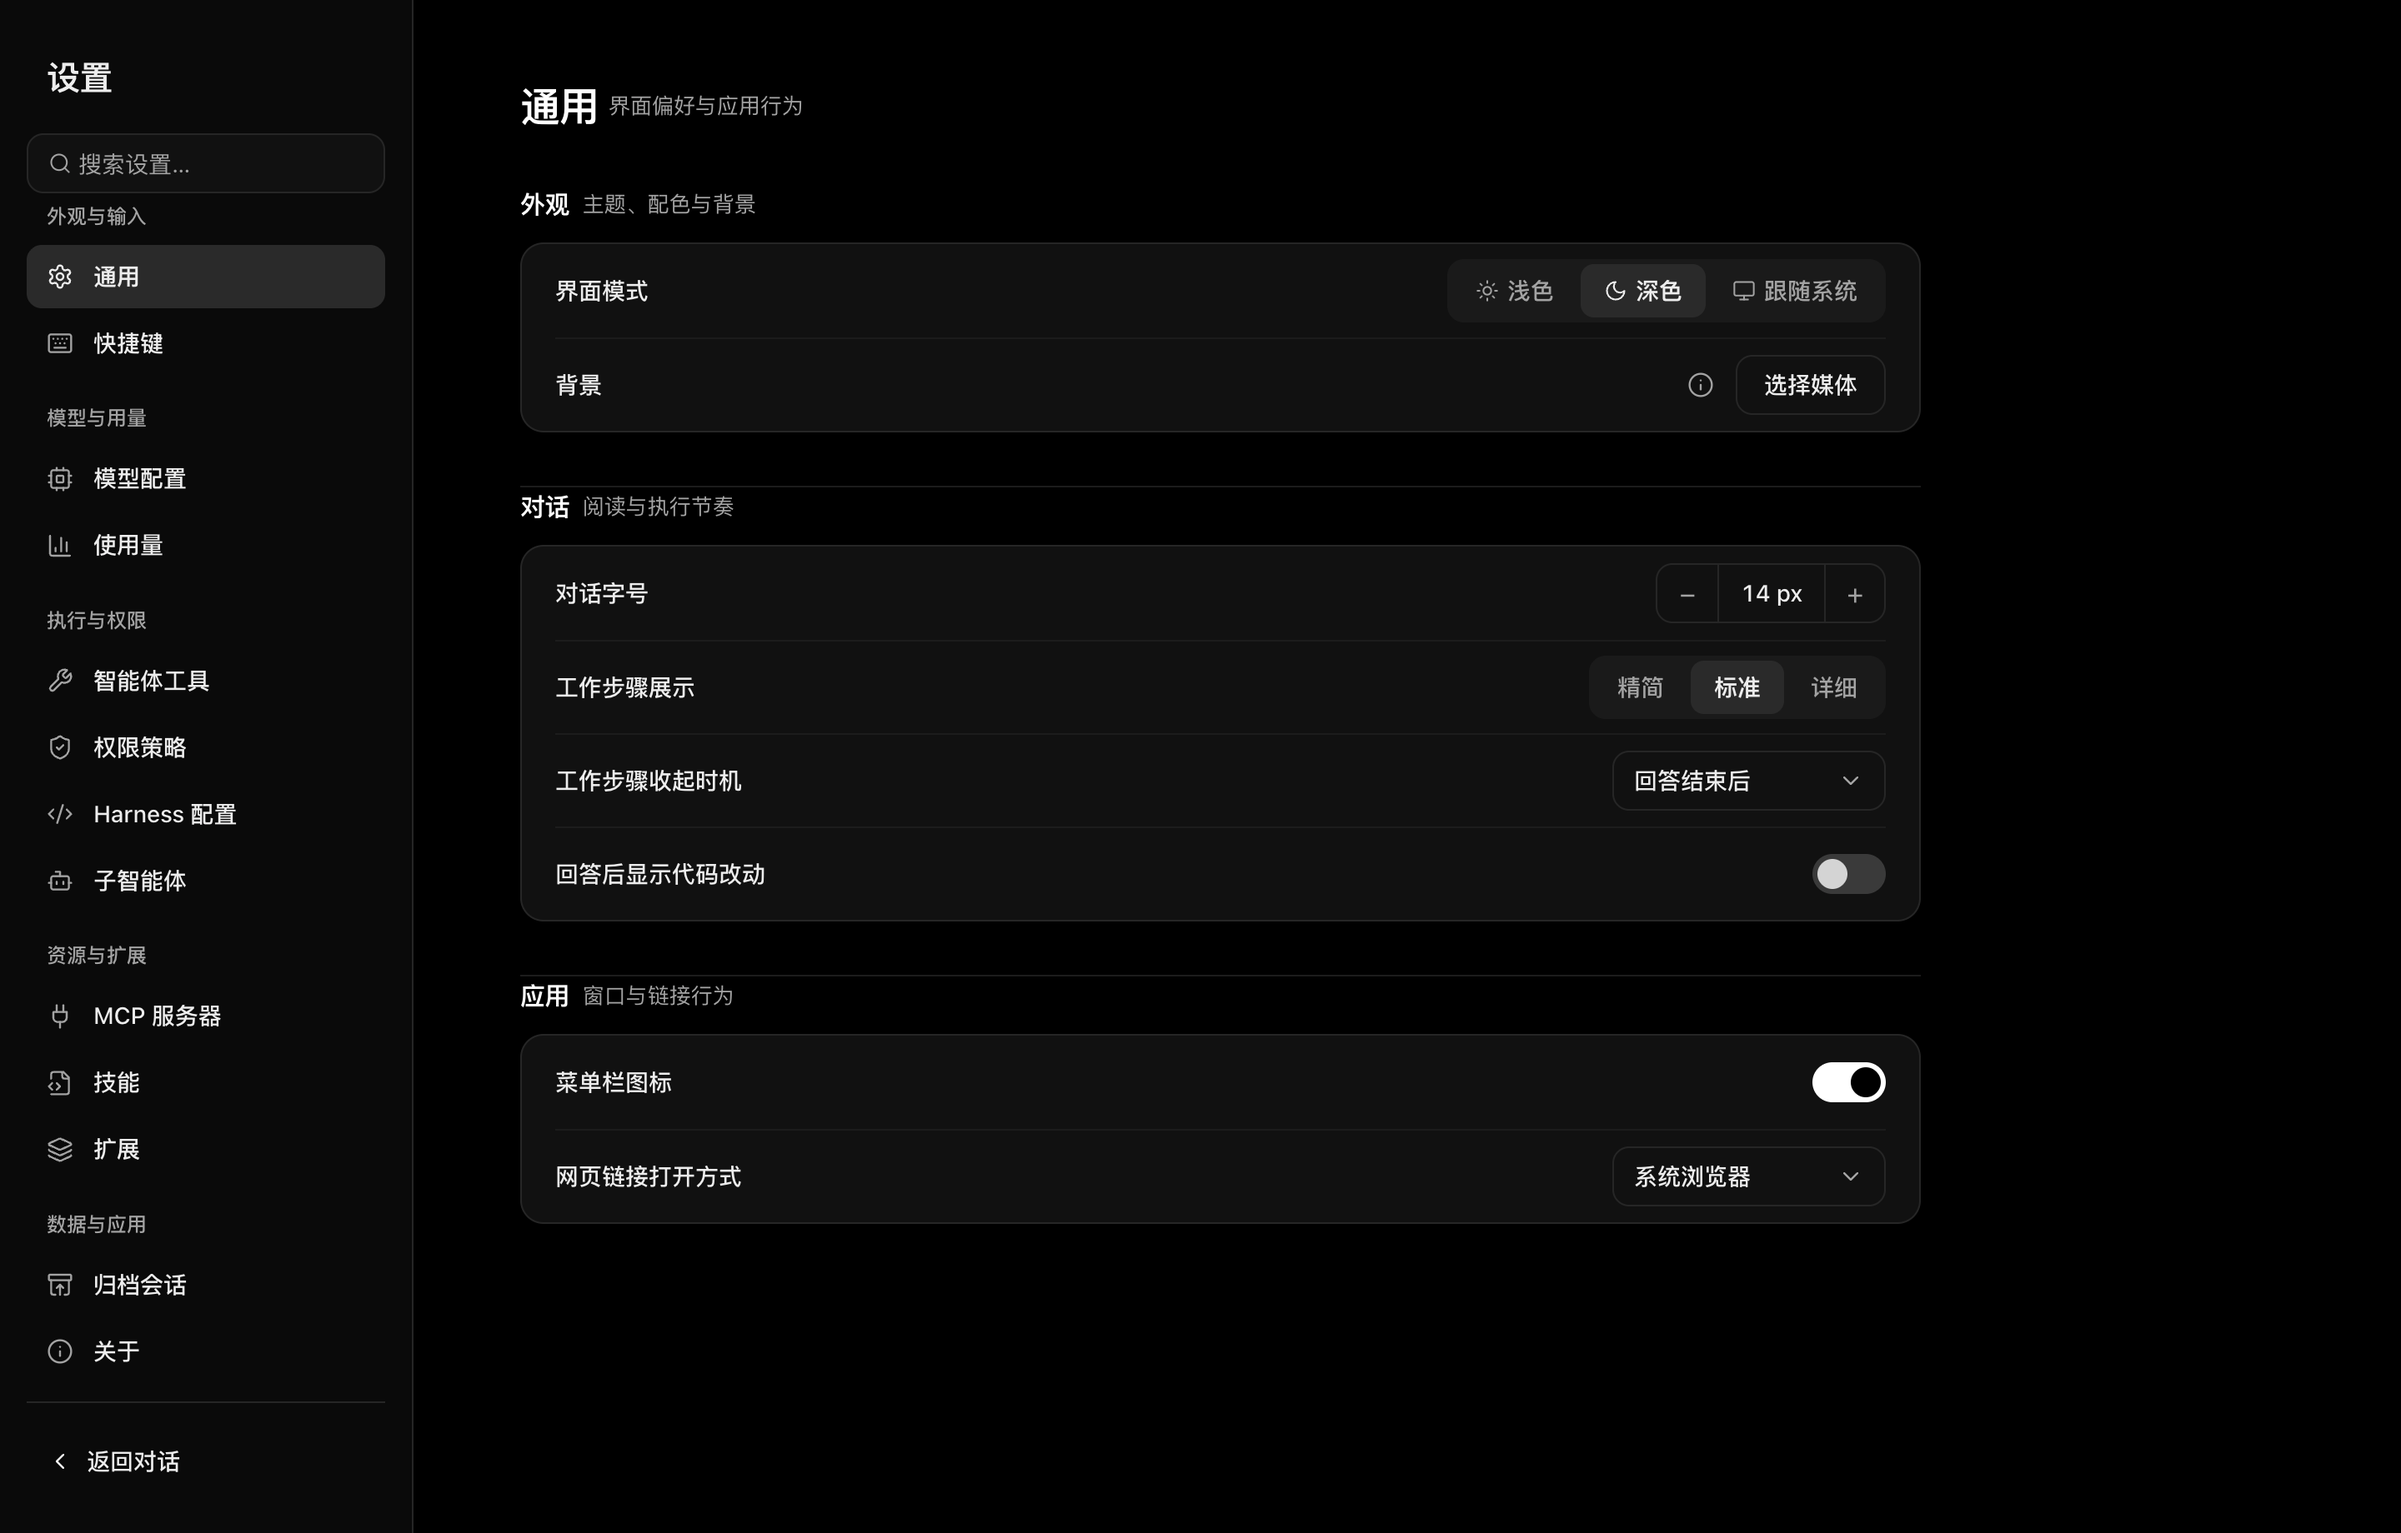
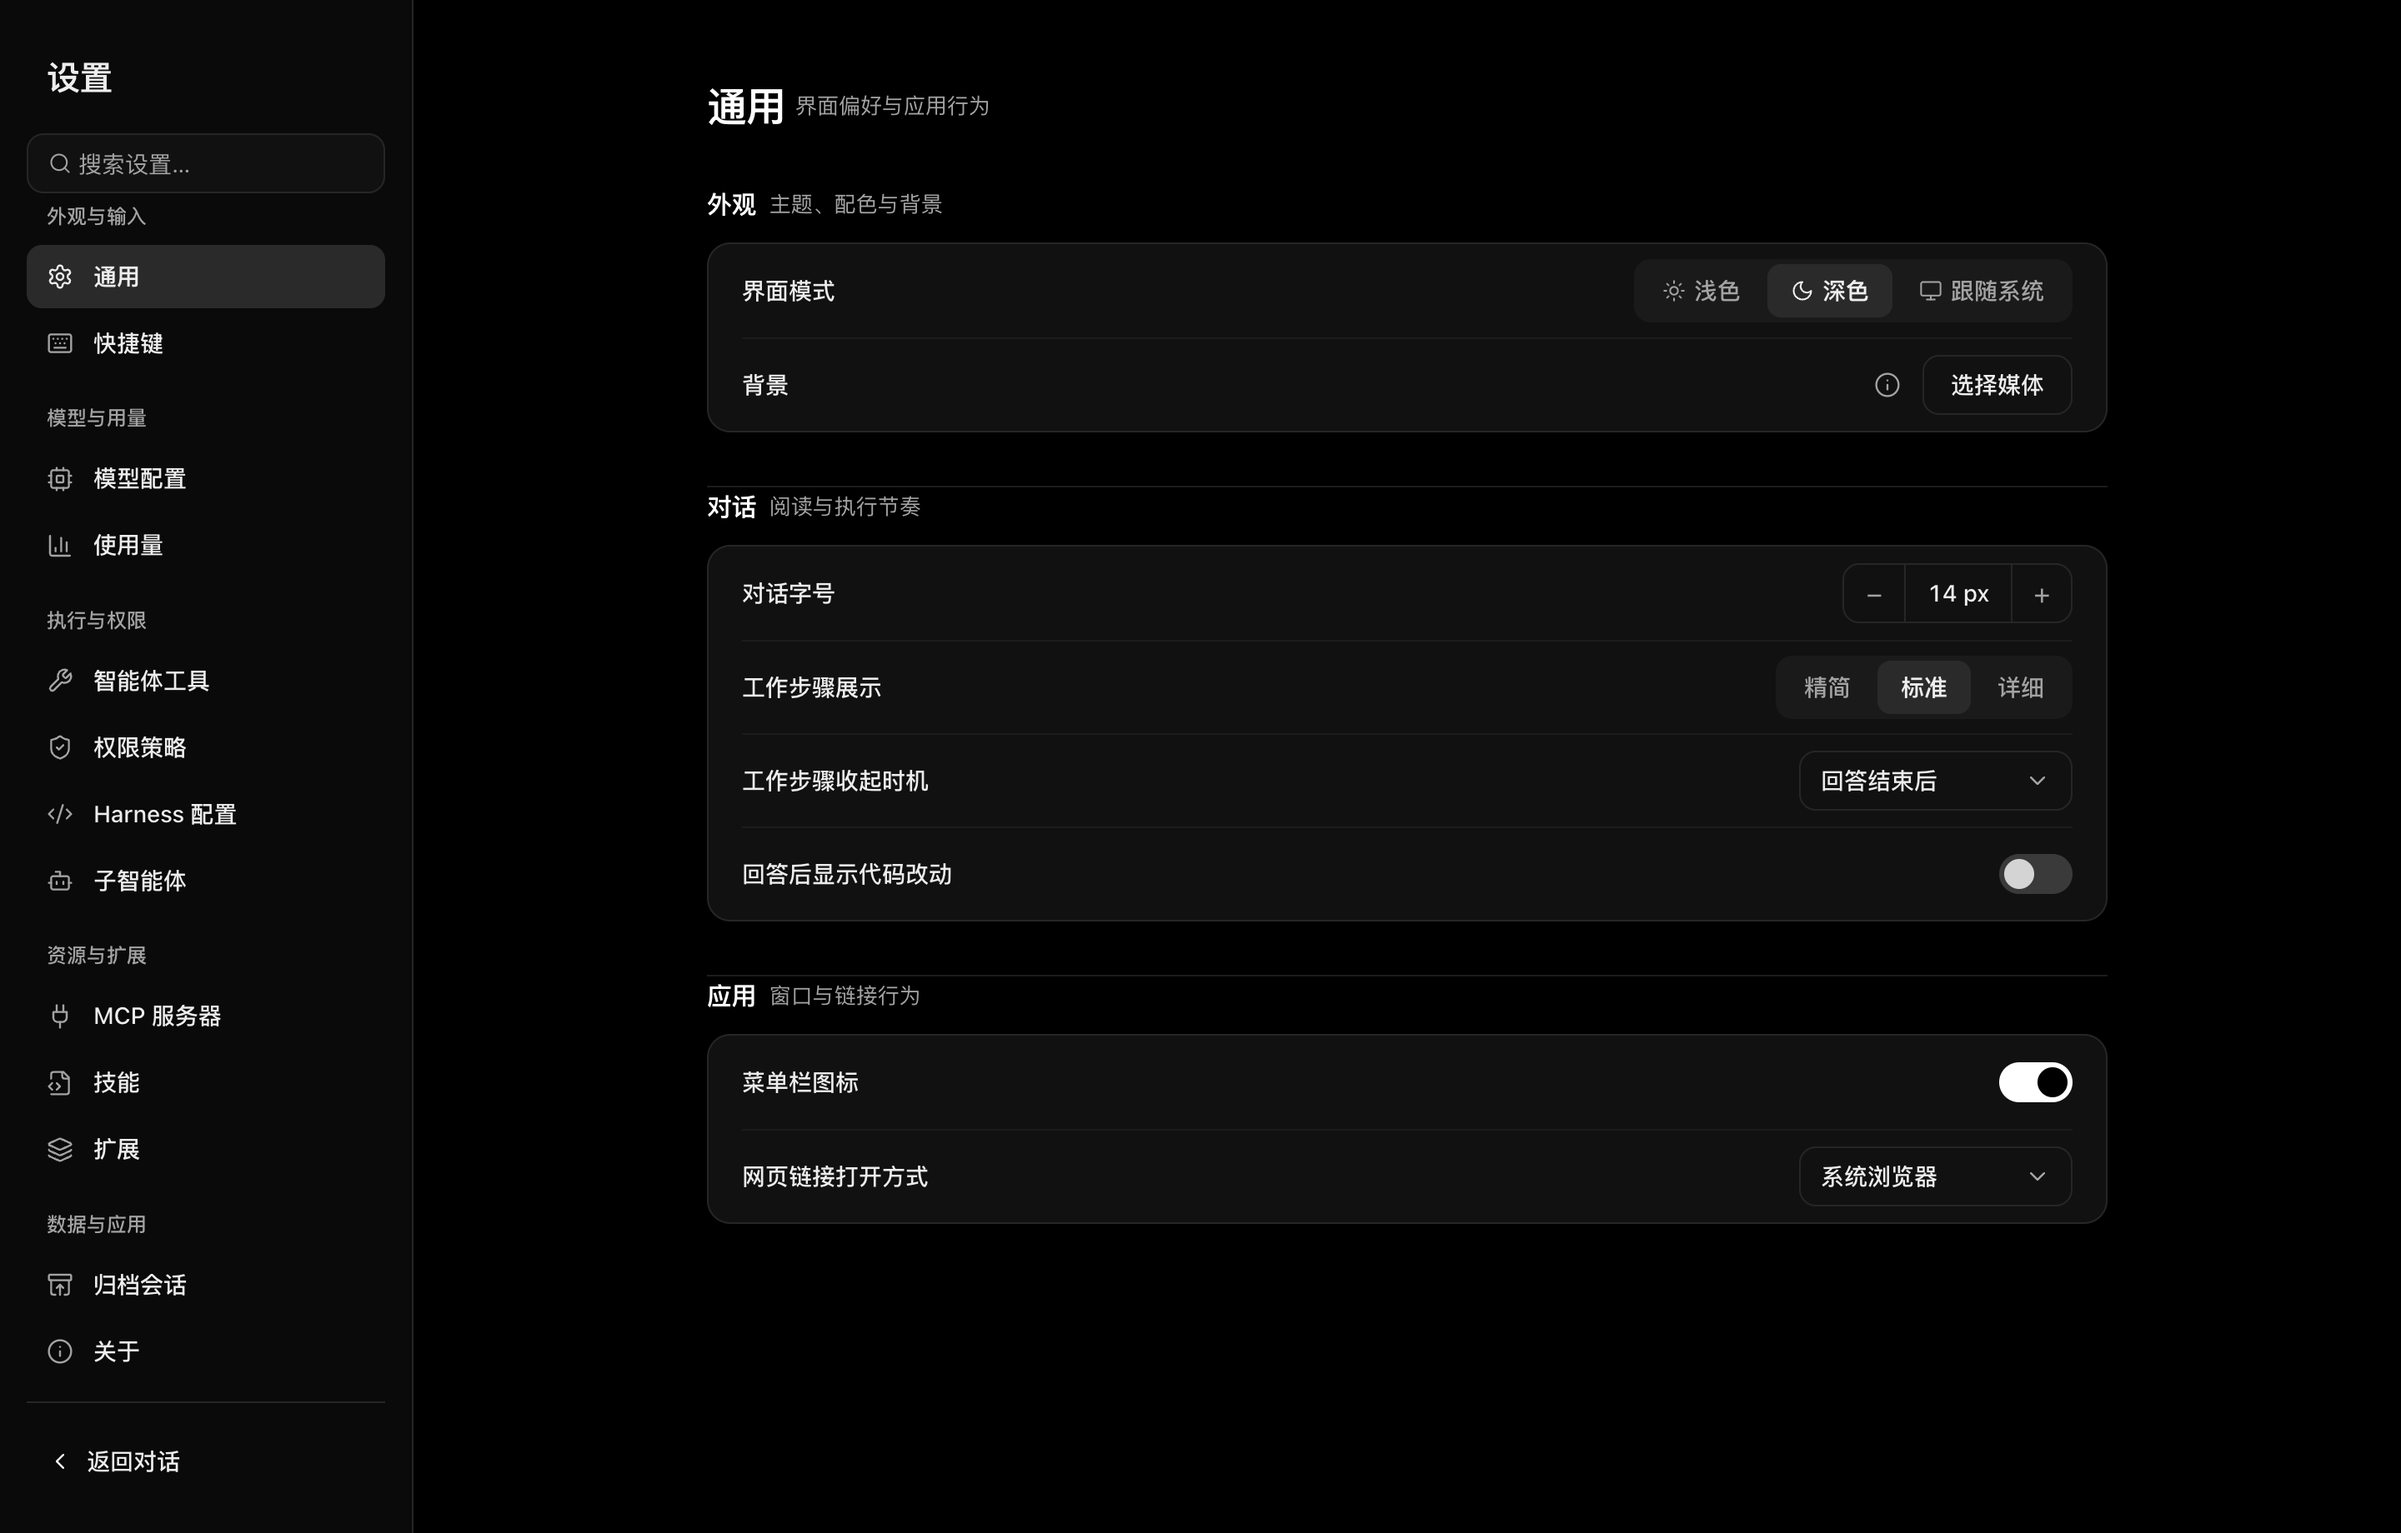
fix(settings): center the 840px settings column in wide windows
内容列在设置区里居中（margin-inline auto），宽窗不再贴住侧栏、右侧只剩单边空白。
同步刷新官网设置截图。

验证：pnpm test 1189/1189，qa-settings-refinement 与 qa-settings-resources 通过；
1280/1560/1680 实测左右留白 96/96、236/236、296/296。

diff --git a/web/src/styles/app/17-settings-surface.css b/web/src/styles/app/17-settings-surface.css
@@ -91,9 +91,10 @@
 .settings-content :is(p, small, .settings-help) { line-height: var(--leading-body); }
 
 .settings-page-frame {
+  /* 840 内容列在剩余空间里居中：宽窗左右留白相等，不再贴住侧栏。 */
   width: 100%;
   max-width: var(--settings-content);
-  margin: 0;
+  margin: 0 auto;
   padding: 0;
   border: 0;
   border-radius: 0;
